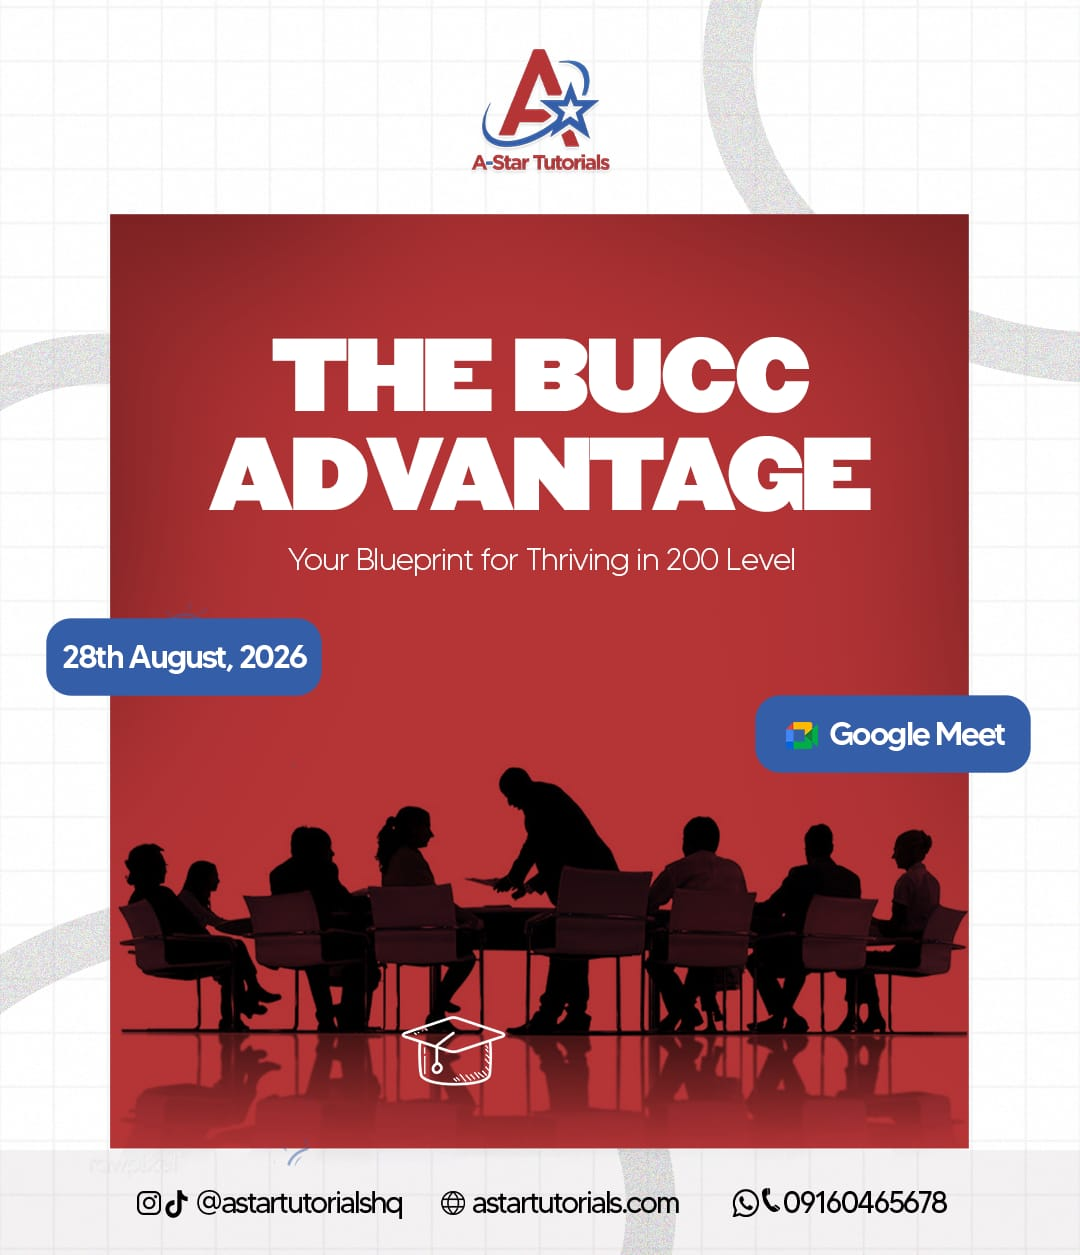
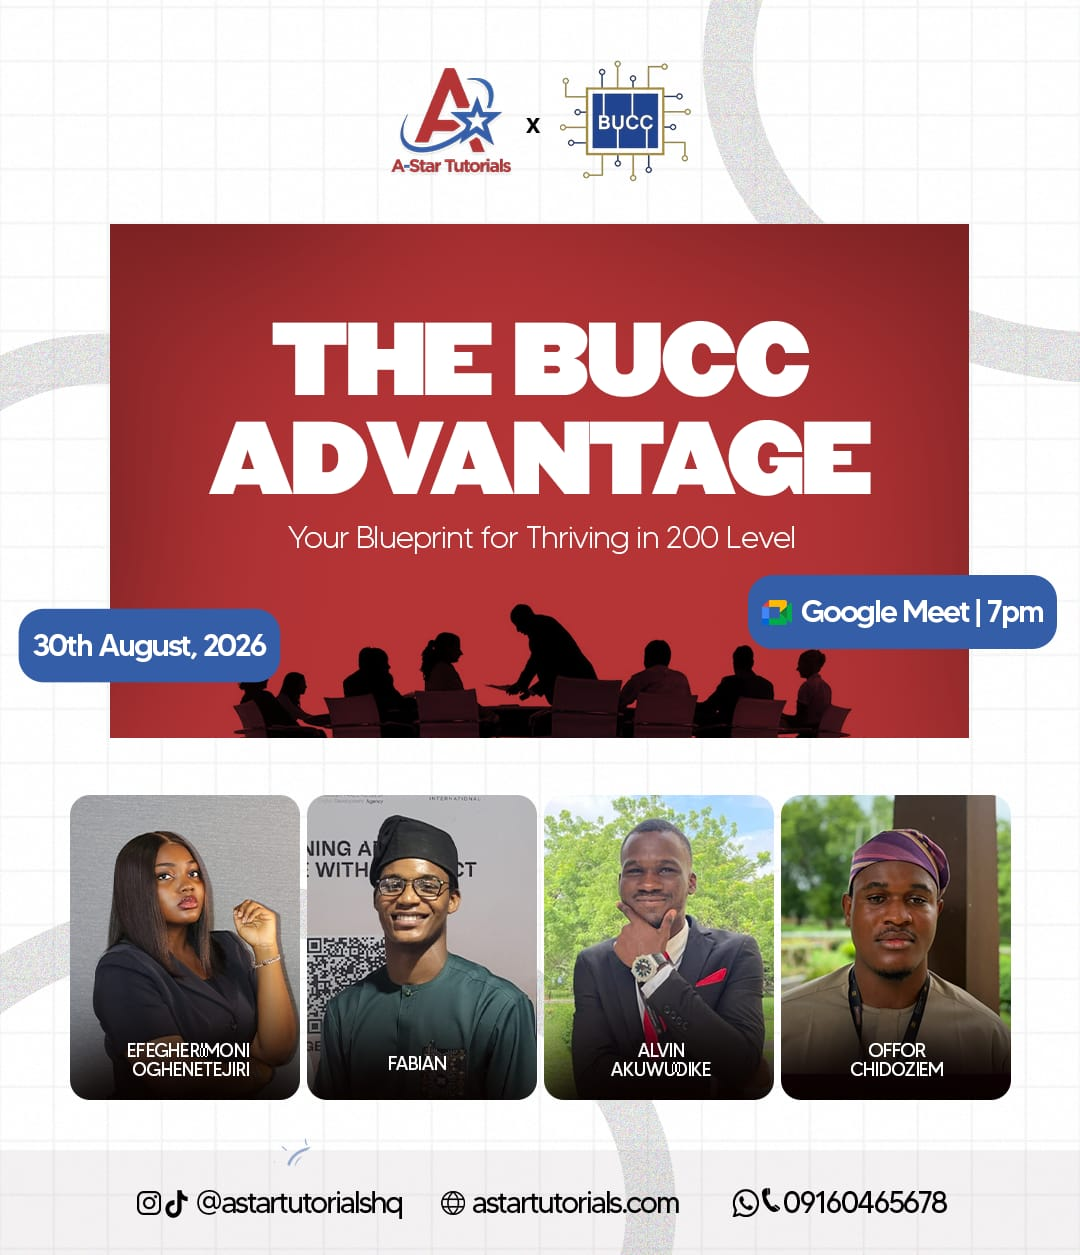
fix: move The BUCC Advantage to Sunday 30th August, 7pm
The webinar was pushed back two days. Update the date label and the
registration cut-off in lib/bucc.ts — the landing page, register modal,
success page and confirmation email all read from there — plus the
hardcoded date strings in the page metadata and the admin header.

Swap in the new flyer artwork (now co-branded with BUCC, showing the
7pm start and the four speakers) and rebuild the 1200x630 social card
from it, keeping the existing background plate and framing.

diff --git a/app/bucc/page.tsx b/app/bucc/page.tsx
@@ -4,12 +4,12 @@ import BuccLanding from "@/components/bucc/BuccLanding";
 export const metadata: Metadata = {
   title: "The BUCC Advantage — Your Blueprint for Thriving in 200 Level",
   description:
-    "A free 90-minute academic & mentorship experience for BUCC 200-level students. Honest advice, real study systems and a live Q&A with high-performing Babcock School of Computing students. Friday, 28th August 2026, 7:00 pm.",
+    "A free 90-minute academic & mentorship experience for BUCC 200-level students. Honest advice, real study systems and a live Q&A with high-performing Babcock School of Computing students. Sunday, 30th August 2026, 7:00 pm.",
   alternates: { canonical: "/bucc" },
   openGraph: {
     title: "The BUCC Advantage | A-Star Tutorials",
     description:
-      "100 level got you into BUCC. 200 level is where you build your academic reputation. Free 90-minute webinar — Friday, 28th August 2026, 7:00 pm.",
+      "100 level got you into BUCC. 200 level is where you build your academic reputation. Free 90-minute webinar — Sunday, 30th August 2026, 7:00 pm.",
     url: "https://astartutorials.com/bucc",
     type: "website",
     images: [
@@ -17,7 +17,7 @@ export const metadata: Metadata = {
         url: "/bucc/og.jpg",
         width: 1200,
         height: 630,
-        alt: "The BUCC Advantage — Your Blueprint for Thriving in 200 Level. 28th August 2026 on Google Meet.",
+        alt: "A-Star Tutorials × BUCC — The BUCC Advantage: Your Blueprint for Thriving in 200 Level. 30th August 2026, 7pm on Google Meet.",
       },
     ],
   },
@@ -25,7 +25,7 @@ export const metadata: Metadata = {
     card: "summary_large_image",
     title: "The BUCC Advantage | A-Star Tutorials",
     description:
-      "100 level got you into BUCC. 200 level is where you build your academic reputation. Free 90-minute webinar — Friday, 28th August 2026, 7:00 pm.",
+      "100 level got you into BUCC. 200 level is where you build your academic reputation. Free 90-minute webinar — Sunday, 30th August 2026, 7:00 pm.",
     images: ["/bucc/og.jpg"],
   },
 };

diff --git a/__tests__/lib/bucc.test.ts b/__tests__/lib/bucc.test.ts
@@ -2,25 +2,25 @@ import { isBuccOpen, BUCC_DATE_LABEL, BUCC_LEVELS, BUCC_PROGRAMMES } from '@/lib
 
 describe('isBuccOpen', () => {
   it('is open well before the webinar starts', () => {
-    expect(isBuccOpen(new Date('2026-08-20T12:00:00Z'))).toBe(true);
+    expect(isBuccOpen(new Date('2026-08-25T12:00:00Z'))).toBe(true);
   });
 
   it('is still open in the final hour before the 7pm WAT start', () => {
-    expect(isBuccOpen(new Date('2026-08-28T17:30:00Z'))).toBe(true);
+    expect(isBuccOpen(new Date('2026-08-30T17:30:00Z'))).toBe(true);
   });
 
   it('closes once the webinar has started', () => {
-    expect(isBuccOpen(new Date('2026-08-28T18:00:01Z'))).toBe(false);
+    expect(isBuccOpen(new Date('2026-08-30T18:00:01Z'))).toBe(false);
   });
 
   it('is closed the day after', () => {
-    expect(isBuccOpen(new Date('2026-08-29T09:00:00Z'))).toBe(false);
+    expect(isBuccOpen(new Date('2026-08-31T09:00:00Z'))).toBe(false);
   });
 });
 
 describe('BUCC constants', () => {
-  it('labels the event date as the Friday it falls on', () => {
-    expect(BUCC_DATE_LABEL).toBe('Friday, 28th August 2026');
+  it('labels the event date as the Sunday it falls on', () => {
+    expect(BUCC_DATE_LABEL).toBe('Sunday, 30th August 2026');
   });
 
   it('offers 200 Level as a selectable level', () => {

diff --git a/lib/bucc.ts b/lib/bucc.ts
@@ -13,7 +13,7 @@
 export const BUCC_EVENT_NAME = "The BUCC Advantage";
 export const BUCC_TAGLINE = "Your Blueprint for Thriving in 200 Level";
 
-export const BUCC_DATE_LABEL = "Friday, 28th August 2026";
+export const BUCC_DATE_LABEL = "Sunday, 30th August 2026";
 export const BUCC_TIME_LABEL = "7:00 pm WAT";
 export const BUCC_DURATION_LABEL = "90 minutes";
 export const BUCC_PLATFORM = "Google Meet";
@@ -28,7 +28,7 @@ export const BUCC_MEETING_URL =
   process.env.NEXT_PUBLIC_BUCC_MEETING_URL ?? "https://meet.google.com/qft-fsxv-pkf";
 
 /** Registration closes when the webinar starts (19:00 WAT = 18:00 UTC). */
-const CLOSES_AT = new Date("2026-08-28T18:00:00Z");
+const CLOSES_AT = new Date("2026-08-30T18:00:00Z");
 
 export const BUCC_LEVELS = [
   "200 Level",

diff --git a/components/home/BuccCTA.tsx b/components/home/BuccCTA.tsx
@@ -75,7 +75,7 @@ export default function BuccCTA() {
             <Link href="/bucc" className="block group">
               <Image
                 src="/bucc/flyer.jpg"
-                alt="The BUCC Advantage — Your Blueprint for Thriving in 200 Level, 28th August 2026 on Google Meet"
+                alt="A-Star Tutorials × BUCC — The BUCC Advantage: Your Blueprint for Thriving in 200 Level, 30th August 2026, 7pm on Google Meet"
                 width={1080}
                 height={1255}
                 sizes="(min-width: 1024px) 420px, 100vw"

diff --git a/app/admin/(dashboard)/bucc/page.tsx b/app/admin/(dashboard)/bucc/page.tsx
@@ -116,7 +116,7 @@ export default function AdminBuccPage() {
         <div>
           <h1 className="text-2xl font-bold text-[#0B1120]">The BUCC Advantage</h1>
           <p className="text-sm text-gray-500 mt-0.5">
-            Webinar registrations — Friday, 28th August 2026, 7:00 pm.
+            Webinar registrations — Sunday, 30th August 2026, 7:00 pm.
           </p>
         </div>
         <button
